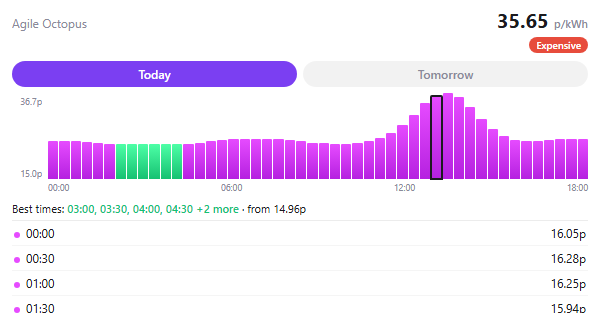
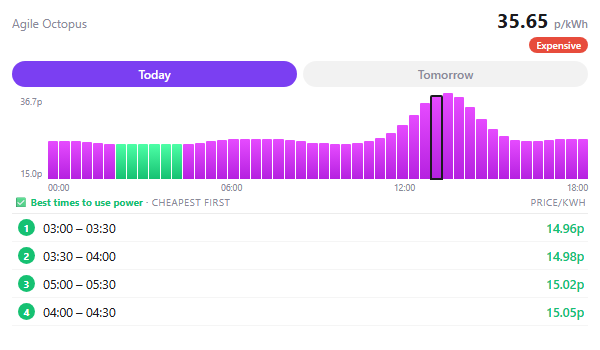
Improve Agile widget: ranked best-times list and robust Tomorrow tab
Replace the full 48-row price list (with confusing dots) with a prioritised 'Best times to use power' list: the cheapest slots ranked cheapest-first, each showing the half-hour range and price, with the current slot marked Now.

Make the Today/Tomorrow tab handler robust by capturing the tab value directly (onclick closure) instead of relying on e.currentTarget. Confirmed via the Homey local widget API that tomorrow data and tomorrowAvailable were already correct. Bump widget height to 350 and refresh preview thumbnails.

diff --git a/widgets/agile/public/index.html b/widgets/agile/public/index.html
@@ -49,17 +49,26 @@
     .bar.current { outline: 2px solid var(--homey-text-color, #fff); outline-offset: -1px; }
     .ticks { display: flex; justify-content: space-between; font-size: 9px; color: var(--homey-text-color-light, #888); margin-top: 2px; }
 
-    .best { font-size: 11px; margin: 8px 0 4px; }
+    .best { font-size: 11px; margin: 8px 0 6px; }
     .best .hl { color: #16c172; font-weight: 600; }
 
-    .list { max-height: 92px; overflow-y: auto; border-top: 1px solid rgba(127,127,127,0.15); margin-top: 2px; }
-    .li { display: flex; justify-content: space-between; font-size: 12px; padding: 4px 2px; border-bottom: 1px solid rgba(127,127,127,0.08); }
-    .li.current { font-weight: 700; }
-    .li.cheap .p { color: #16c172; font-weight: 600; }
-    .li .p { font-variant-numeric: tabular-nums; }
-    .dot { display: inline-block; width: 6px; height: 6px; border-radius: 50%; margin-right: 6px; background: #e64bff; vertical-align: middle; }
-    .li.cheap .dot { background: #16c172; }
-    .li.current .dot { background: var(--homey-text-color, #fff); box-shadow: 0 0 0 2px rgba(123,63,242,0.6); }
+    .lhead { display: flex; justify-content: space-between; font-size: 10px; text-transform: uppercase;
+      letter-spacing: 0.04em; color: var(--homey-text-color-light, #888); padding: 2px 2px 4px; }
+    .lhead .hl { color: #16c172; font-weight: 700; text-transform: none; letter-spacing: 0; }
+    .list { max-height: 116px; overflow-y: auto; border-top: 1px solid rgba(127,127,127,0.15); }
+    .li { display: flex; align-items: center; gap: 8px; font-size: 12.5px;
+      padding: 5px 4px 5px 6px; border-bottom: 1px solid rgba(127,127,127,0.08); }
+    .li .rank { display: inline-flex; align-items: center; justify-content: center;
+      width: 17px; height: 17px; border-radius: 50%; font-size: 10px; font-weight: 700;
+      background: #16c172; color: #fff; flex: 0 0 auto; }
+    .li .time { flex: 1 1 auto; font-variant-numeric: tabular-nums; }
+    .li .p { font-variant-numeric: tabular-nums; font-weight: 600; color: #16c172; }
+    .li.plunge .rank, .li.plunge .p { background: #6f42c1; }
+    .li.plunge .p { background: none; color: #8e6bff; }
+    .li.current { background: rgba(123,63,242,0.12); }
+    .li.current .rank { background: #7b3ff2; }
+    .tag { font-size: 9px; font-weight: 700; padding: 1px 6px; border-radius: 8px; vertical-align: middle; }
+    .tag.now { background: #7b3ff2; color: #fff; }
 
     .err { font-size: 13px; color: var(--homey-text-color-light, #888); padding: 10px 0; }
     .muted { font-size: 11px; color: var(--homey-text-color-light, #888); padding: 14px 0; text-align: center; }
@@ -109,27 +118,34 @@
         + '</div>';
     }
 
-    function renderBest(slots) {
-      var cheap = slots.filter(function (s) { return s.cheapest; });
-      if (!cheap.length) return '';
-      cheap.sort(function (a, b) { return a.start < b.start ? -1 : 1; });
-      var labels = cheap.slice(0, 4).map(function (s) { return s.label; }).join(', ');
-      var more = cheap.length > 4 ? ' +' + (cheap.length - 4) + ' more' : '';
-      var lo = Math.min.apply(null, cheap.map(function (s) { return s.price; }));
-      return '<div class="best">Best times: <span class="hl">' + labels + more
-        + '</span> · from ' + fmt(lo) + 'p</div>';
+    function addHalfHour(label) {
+      var p = String(label).split(':');
+      var h = Number(p[0]) || 0;
+      var m = (Number(p[1]) || 0) + 30;
+      if (m >= 60) { m -= 60; h = (h + 1) % 24; }
+      return (h < 10 ? '0' : '') + h + ':' + (m < 10 ? '0' : '') + m;
     }
 
-    function renderList(slots) {
-      if (!slots.length) return '';
-      var rows = slots.map(function (s) {
+    function renderBestList(slots) {
+      var best = slots.filter(function (s) { return s.cheapest; });
+      if (!best.length) {
+        return '<div class="muted">Set “Highlight cheapest slots” above 0 to see best times.</div>';
+      }
+      best.sort(function (a, b) { return a.price - b.price; });
+      var rows = best.map(function (s, i) {
         var cls = 'li';
-        if (s.cheapest && s.price >= 0) cls += ' cheap';
+        if (s.price < 0) cls += ' plunge';
         if (s.current) cls += ' current';
-        return '<div class="' + cls + '"><span><span class="dot"></span>' + s.label + '</span>'
+        var range = s.label + ' – ' + addHalfHour(s.label);
+        var now = s.current ? ' <span class="tag now">Now</span>' : '';
+        return '<div class="' + cls + '">'
+          + '<span class="rank">' + (i + 1) + '</span>'
+          + '<span class="time">' + range + now + '</span>'
           + '<span class="p">' + fmt(s.price) + 'p</span></div>';
       }).join('');
-      return '<div class="list">' + rows + '</div>';
+      return '<div class="lhead"><span><span class="hl">✅ Best times to use power</span> · cheapest first</span>'
+        + '<span>Price/kWh</span></div>'
+        + '<div class="list" id="list">' + rows + '</div>';
     }
 
     function render() {
@@ -139,7 +155,7 @@
         el.innerHTML = '<div class="err">' + ((d && d.error) || 'No data') + '</div>';
         return;
       }
-      var tomorrowOk = d.tomorrowAvailable && (d.tomorrow || []).length;
+      var tomorrowOk = !!(d.tomorrowAvailable && (d.tomorrow || []).length);
       if (STATE.tab === 'tomorrow' && !tomorrowOk) STATE.tab = 'today';
       var slots = slotsFor(d, STATE.tab);
 
@@ -161,20 +177,25 @@
         html += '<div class="muted">Tomorrow\u2019s prices are not published yet (usually after ~4pm).</div>';
       } else {
         html += renderChart(slots);
-        html += renderBest(slots);
-        html += renderList(slots);
+        html += renderBestList(slots);
       }
 
       el.innerHTML = html;
+      wireTabs(el, tomorrowOk);
+    }
 
+    function wireTabs(el, tomorrowOk) {
       var tabs = el.querySelectorAll('.tab');
       for (var i = 0; i < tabs.length; i++) {
-        tabs[i].addEventListener('click', function (e) {
-          var t = e.currentTarget.getAttribute('data-tab');
-          if (t === 'tomorrow' && !tomorrowOk) return;
-          STATE.tab = t;
-          render();
-        });
+        (function (tab) {
+          var t = tab.getAttribute('data-tab');
+          tab.onclick = function () {
+            if (t === 'tomorrow' && !tomorrowOk) return;
+            if (STATE.tab === t) return;
+            STATE.tab = t;
+            render();
+          };
+        }(tabs[i]));
       }
     }
 